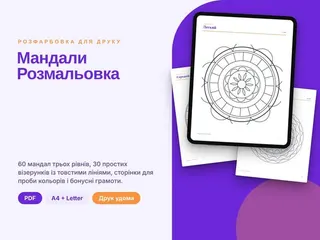
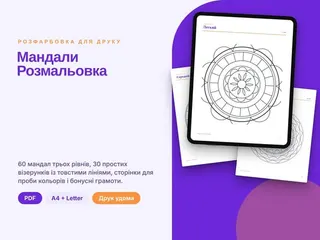
Update SEO pages

Changed region(s): [[0.0312, 0.2042, 0.375, 0.35]]

diff --git a/book/415e7af5-9b71-4b15-a2c9-d773b7cbc7a8/index.html b/book/415e7af5-9b71-4b15-a2c9-d773b7cbc7a8/index.html
@@ -11,10 +11,10 @@
 <link rel="canonical" href="https://librava.store/book/415e7af5-9b71-4b15-a2c9-d773b7cbc7a8/">
 <meta property="og:type" content="book"><meta property="og:site_name" content="Librava"><meta property="og:url" content="https://librava.store/book/415e7af5-9b71-4b15-a2c9-d773b7cbc7a8/">
 <meta property="og:title" content="Розмальовки Мандали для Дорослих, Розмальовка для Друку PDF для Релаксації та Зняття Стресу: 60 візерунків трьох рівнів складності, ще 30 з товстими лініями, сторінка проби кольорів, щоденник і грамоти, A4 та US Letter · 5,99 EUR"><meta property="og:description" content="Librava · Роздрукуйте вдома цілу майстерню мандал і розфарбовуйте на папері або на планшеті. В одному завантаженні ви отримаєте три частини. По-перше, головна книга: 60…">
-<meta property="og:image" content="https://librava.store/book/415e7af5-9b71-4b15-a2c9-d773b7cbc7a8/cover.jpg?v=1794601038913"><meta property="og:image:width" content="600"><meta property="og:image:height" content="450"><meta property="og:locale" content="uk">
-<meta name="twitter:card" content="summary_large_image"><meta name="twitter:image" content="https://librava.store/book/415e7af5-9b71-4b15-a2c9-d773b7cbc7a8/cover.jpg?v=1794601038913">
+<meta property="og:image" content="https://librava.store/book/415e7af5-9b71-4b15-a2c9-d773b7cbc7a8/cover.jpg?v=1794604566594"><meta property="og:image:width" content="600"><meta property="og:image:height" content="450"><meta property="og:locale" content="uk">
+<meta name="twitter:card" content="summary_large_image"><meta name="twitter:image" content="https://librava.store/book/415e7af5-9b71-4b15-a2c9-d773b7cbc7a8/cover.jpg?v=1794604566594">
 <meta property="product:price:amount" content="5.99"><meta property="product:price:currency" content="EUR">
-<script type="application/ld+json">{"@context":"https://schema.org","@graph":[{"@type":"Organization","@id":"https://librava.store/#org","name":"Librava","url":"https://librava.store/","logo":"https://librava.store/assets/img/icon-512.png","sameAs":["https://www.youtube.com/@LibravaStore","https://pin.it/1jF6MLTus","https://www.tiktok.com/@librava.store_ebook","https://www.instagram.com/librava.store_ebook/","https://www.facebook.com/profile.php?id=61596030620371"]},{"@type":"Product","@id":"https://librava.store/book/415e7af5-9b71-4b15-a2c9-d773b7cbc7a8/#book","name":"Розмальовки Мандали для Дорослих, Розмальовка для Друку PDF для Релаксації та Зняття Стресу","alternativeName":"60 візерунків трьох рівнів складності, ще 30 з товстими лініями, сторінка проби кольорів, щоденник і грамоти, A4 та US Letter","url":"https://librava.store/book/415e7af5-9b71-4b15-a2c9-d773b7cbc7a8/","description":"Роздрукуйте вдома цілу майстерню мандал і розфарбовуйте на папері або на планшеті. В одному завантаженні ви отримаєте три частини. По-перше, головна книга: 60 оригінальних мандал, кожна на окремій сторінці, від простих візерунків із великими формами до складних із тонкими лініями. Мандали з 1 по 20 легкі, з 21 по 40 середні, а з 41 по 60 складні. По-друге, видання з товстими лініями на 30 додаткових візерунків, які добре підходять для воскових олівців, товстих маркерів і маленьких рук. По-третє, бонусний набір з обліком прогресу, сторінкою щоденника розфарбовування та двома грамотами. У головній книзі також є сторінка проби кольорів і сторінка палітри, щоб ви могли сплановувати відтінки до початку. Кожен візерунок симетричний і створений для розфарбовування від центру до країв або від країв до центру. У комплекті файли PDF і для A4, і для US Letter, готові до друку у фактичному розмірі. Користуйтеся олівцями, гелевими ручками, маркерами чи цифровими пензлями: лінії чіткі й охайні, тож кожен колір виглядає яскраво. Вставте улюблені роботи в рамку, подаруйте їх або створіть спокійний вечірній ритуал із однією сторінкою на день. Файли A4 і Letter містять однакові сторінки, тому оберіть той, що підходить вашому принтеру. Лише для особистого використання.","image":["https://librava.store/book/415e7af5-9b71-4b15-a2c9-d773b7cbc7a8/cover.jpg?v=1794601038913"],"category":"Розмальовка","datePublished":"2026-11-13","publisher":{"@id":"https://librava.store/#org"},"copyrightHolder":{"@id":"https://librava.store/#org"},"copyrightYear":2026,"copyrightNotice":"© 2026 Librava (librava.store). All rights reserved.","brand":{"@type":"Brand","name":"Librava"},"sku":"415e7af5-9b71-4b15-a2c9-d773b7cbc7a8","genre":"Хобі, рукоділля та дім","offers":{"@type":"Offer","url":"https://librava.store/book/415e7af5-9b71-4b15-a2c9-d773b7cbc7a8/","name":"Цифровий файл (ZIP)","price":"5.99","priceCurrency":"EUR","availability":"https://schema.org/InStock","itemCondition":"https://schema.org/NewCondition","seller":{"@id":"https://librava.store/#org"},"hasMerchantReturnPolicy":{"@type":"MerchantReturnPolicy","applicableCountry":["AT","BE","BG","HR","CY","CZ","DK","EE","FI","FR","DE","GR","HU","IE","IT","LV","LT","LU","MT","NL","PL","PT","RO","SK","SI","ES","SE","GB","CH","NO","IS","US","CA","AU","NZ","MD","UA"],"returnPolicyCategory":"https://schema.org/MerchantReturnNotPermitted","merchantReturnLink":"https://librava.store/#/legal/withdrawal"},"shippingDetails":{"@type":"OfferShippingDetails","shippingRate":{"@type":"MonetaryAmount","value":0,"currency":"EUR"},"shippingDestination":{"@type":"DefinedRegion","addressCountry":["AT","BE","BG","HR","CY","CZ","DK","EE","FI","FR","DE","GR","HU","IE","IT","LV","LT","LU","MT","NL","PL","PT","RO","SK","SI","ES","SE","GB","CH","NO","IS","US","CA","AU","NZ","MD","UA"]},"deliveryTime":{"@type":"ShippingDeliveryTime","handlingTime":{"@type":"QuantitativeValue","minValue":0,"maxValue":0,"unitCode":"DAY"},"transitTime":{"@type":"QuantitativeValue","minValue":0,"maxValue":0,"unitCode":"DAY"}}}}},{"@type":"BreadcrumbList","itemListElement":[{"@type":"ListItem","position":1,"name":"Librava","item":"https://librava.store/uk/"},{"@type":"ListItem","position":2,"name":"Хобі, рукоділля та дім","item":"https://librava.store/uk/хобі-рукоділля-та-дім/"},{"@type":"ListItem","position":3,"name":"Розмальовки Мандали для Дорослих, Розмальовка для Друку PDF для Релаксації та Зняття Стресу","item":"https://librava.store/book/415e7af5-9b71-4b15-a2c9-d773b7cbc7a8/"}]}]}</script>
+<script type="application/ld+json">{"@context":"https://schema.org","@graph":[{"@type":"Organization","@id":"https://librava.store/#org","name":"Librava","url":"https://librava.store/","logo":"https://librava.store/assets/img/icon-512.png","sameAs":["https://www.youtube.com/@LibravaStore","https://pin.it/1jF6MLTus","https://www.tiktok.com/@librava.store_ebook","https://www.instagram.com/librava.store_ebook/","https://www.facebook.com/profile.php?id=61596030620371"]},{"@type":"Product","@id":"https://librava.store/book/415e7af5-9b71-4b15-a2c9-d773b7cbc7a8/#book","name":"Розмальовки Мандали для Дорослих, Розмальовка для Друку PDF для Релаксації та Зняття Стресу","alternativeName":"60 візерунків трьох рівнів складності, ще 30 з товстими лініями, сторінка проби кольорів, щоденник і грамоти, A4 та US Letter","url":"https://librava.store/book/415e7af5-9b71-4b15-a2c9-d773b7cbc7a8/","description":"Роздрукуйте вдома цілу майстерню мандал і розфарбовуйте на папері або на планшеті. В одному завантаженні ви отримаєте три частини. По-перше, головна книга: 60 оригінальних мандал, кожна на окремій сторінці, від простих візерунків із великими формами до складних із тонкими лініями. Мандали з 1 по 20 легкі, з 21 по 40 середні, а з 41 по 60 складні. По-друге, видання з товстими лініями на 30 додаткових візерунків, які добре підходять для воскових олівців, товстих маркерів і маленьких рук. По-третє, бонусний набір з обліком прогресу, сторінкою щоденника розфарбовування та двома грамотами. У головній книзі також є сторінка проби кольорів і сторінка палітри, щоб ви могли сплановувати відтінки до початку. Кожен візерунок симетричний і створений для розфарбовування від центру до країв або від країв до центру. У комплекті файли PDF і для A4, і для US Letter, готові до друку у фактичному розмірі. Користуйтеся олівцями, гелевими ручками, маркерами чи цифровими пензлями: лінії чіткі й охайні, тож кожен колір виглядає яскраво. Вставте улюблені роботи в рамку, подаруйте їх або створіть спокійний вечірній ритуал із однією сторінкою на день. Файли A4 і Letter містять однакові сторінки, тому оберіть той, що підходить вашому принтеру. Лише для особистого використання.","image":["https://librava.store/book/415e7af5-9b71-4b15-a2c9-d773b7cbc7a8/cover.jpg?v=1794604566594"],"category":"Розмальовка","datePublished":"2026-11-13","publisher":{"@id":"https://librava.store/#org"},"copyrightHolder":{"@id":"https://librava.store/#org"},"copyrightYear":2026,"copyrightNotice":"© 2026 Librava (librava.store). All rights reserved.","brand":{"@type":"Brand","name":"Librava"},"sku":"415e7af5-9b71-4b15-a2c9-d773b7cbc7a8","genre":"Хобі, рукоділля та дім","offers":{"@type":"Offer","url":"https://librava.store/book/415e7af5-9b71-4b15-a2c9-d773b7cbc7a8/","name":"Цифровий файл (ZIP)","price":"5.99","priceCurrency":"EUR","availability":"https://schema.org/InStock","itemCondition":"https://schema.org/NewCondition","seller":{"@id":"https://librava.store/#org"},"hasMerchantReturnPolicy":{"@type":"MerchantReturnPolicy","applicableCountry":["AT","BE","BG","HR","CY","CZ","DK","EE","FI","FR","DE","GR","HU","IE","IT","LV","LT","LU","MT","NL","PL","PT","RO","SK","SI","ES","SE","GB","CH","NO","IS","US","CA","AU","NZ","MD","UA"],"returnPolicyCategory":"https://schema.org/MerchantReturnNotPermitted","merchantReturnLink":"https://librava.store/#/legal/withdrawal"},"shippingDetails":{"@type":"OfferShippingDetails","shippingRate":{"@type":"MonetaryAmount","value":0,"currency":"EUR"},"shippingDestination":{"@type":"DefinedRegion","addressCountry":["AT","BE","BG","HR","CY","CZ","DK","EE","FI","FR","DE","GR","HU","IE","IT","LV","LT","LU","MT","NL","PL","PT","RO","SK","SI","ES","SE","GB","CH","NO","IS","US","CA","AU","NZ","MD","UA"]},"deliveryTime":{"@type":"ShippingDeliveryTime","handlingTime":{"@type":"QuantitativeValue","minValue":0,"maxValue":0,"unitCode":"DAY"},"transitTime":{"@type":"QuantitativeValue","minValue":0,"maxValue":0,"unitCode":"DAY"}}}}},{"@type":"BreadcrumbList","itemListElement":[{"@type":"ListItem","position":1,"name":"Librava","item":"https://librava.store/uk/"},{"@type":"ListItem","position":2,"name":"Хобі, рукоділля та дім","item":"https://librava.store/uk/хобі-рукоділля-та-дім/"},{"@type":"ListItem","position":3,"name":"Розмальовки Мандали для Дорослих, Розмальовка для Друку PDF для Релаксації та Зняття Стресу","item":"https://librava.store/book/415e7af5-9b71-4b15-a2c9-d773b7cbc7a8/"}]}]}</script>
 <!--/seo-->
 <meta name="google-site-verification" content="yHD2kTaqxFeEIKDSsD2zDN_drl_cTOeUGwN5LJR0zIg">
 <meta name="claude:viewport-fit-sides" content="cover">
@@ -30,7 +30,7 @@
 <body>
 <header class="hdr" id="hdr"></header>
 <main id="app" tabindex="-1"><div class="wrap page seo-pre"><nav class="crumbs"><a href="/uk/">Librava</a> › <a href="/uk/хобі-рукоділля-та-дім/">Хобі, рукоділля та дім</a></nav>
-    <article class="seo-book"><img src="https://librava.store/book/415e7af5-9b71-4b15-a2c9-d773b7cbc7a8/cover.jpg?v=1794601038913" alt="Розмальовки Мандали для Дорослих, Розмальовка для Друку PDF для Релаксації та Зняття Стресу" width="600" height="450"><div><h1>Розмальовки Мандали для Дорослих, Розмальовка для Друку PDF для Релаксації та Зняття Стресу</h1><p class="subtitle">60 візерунків трьох рівнів складності, ще 30 з товстими лініями, сторінка проби кольорів, щоденник і грамоти, A4 та US Letter</p>
+    <article class="seo-book"><img src="https://librava.store/book/415e7af5-9b71-4b15-a2c9-d773b7cbc7a8/cover.jpg?v=1794604566594" alt="Розмальовки Мандали для Дорослих, Розмальовка для Друку PDF для Релаксації та Зняття Стресу" width="600" height="450"><div><h1>Розмальовки Мандали для Дорослих, Розмальовка для Друку PDF для Релаксації та Зняття Стресу</h1><p class="subtitle">60 візерунків трьох рівнів складності, ще 30 з товстими лініями, сторінка проби кольорів, щоденник і грамоти, A4 та US Letter</p>
     <p>Автор: Librava</p><p><a href="/book/415e7af5-9b71-4b15-a2c9-d773b7cbc7a8/"><b>5,99 EUR</b> · Цифровий файл (ZIP)</a></p>
     <p>Роздрукуйте вдома цілу майстерню мандал і розфарбовуйте на папері або на планшеті. В одному завантаженні ви отримаєте три частини. По-перше, головна книга: 60 оригінальних мандал, кожна на окремій сторінці, від простих візерунків із великими формами до складних із тонкими лініями. Мандали з 1 по 20 легкі, з 21 по 40 середні, а з 41 по 60 складні. По-друге, видання з товстими лініями на 30 додаткових візерунків, які добре підходять для воскових олівців, товстих маркерів і маленьких рук. По-третє, бонусний набір з обліком прогресу, сторінкою щоденника розфарбовування та двома грамотами. У головній книзі також є сторінка проби кольорів і сторінка палітри, щоб ви могли сплановувати відтінки до початку. Кожен візерунок симетричний і створений для розфарбовування від центру до країв або від країв до центру. У комплекті файли PDF і для A4, і для US Letter, готові до друку у фактичному розмірі. Користуйтеся олівцями, гелевими ручками, маркерами чи цифровими пензлями: лінії чіткі й охайні, тож кожен колір виглядає яскраво. Вставте улюблені роботи в рамку, подаруйте їх або створіть спокійний вечірній ритуал із однією сторінкою на день. Файли A4 і Letter містять однакові сторінки, тому оберіть той, що підходить вашому принтеру. Лише для особистого використання.</p></div></article>
     

diff --git a/book/1b237343-08a7-4f1a-a118-45801a982d28/index.html b/book/1b237343-08a7-4f1a-a118-45801a982d28/index.html
@@ -35,7 +35,7 @@
     <p>Роздрукуйте вдома цілу бібліотеку філвордів і розв’язуйте їх на папері або на планшеті. У завантаженні три речі. Перша: основна книга з 60 тематичних головоломок, у кожній з яких 16 прихованих слів у чіткій сітці 15 на 15. Теми різноманітні: від морського життя й космосу до піратів, випічки та великих міст. Головоломки 1–20 прості, 21–40 середні, а 41–60 складні, тож складність зростає у вашому темпі. Друга: книга великим шрифтом із 30 додатковими головоломками на сітці 12 на 12. Літери великі й добре читаються, тому розв’язувати спокійно й комфортно для очей. Третя: бонусний набір із трекером прогресу, сторінкою особистих рекордів і двома сертифікатами. Слова йдуть по горизонталі, по вертикалі, по діагоналі та навпаки. До кожної головоломки є повні відповіді, тож результат можна одразу перевірити. У комплекті є файли PDF і для A4, і для US Letter, обидва готові до друку у фактичному розмірі. Головоломки підійдуть і дорослим, і дітям, це спокійний спосіб тримати розум у тонусі та приємно провести час разом. Гарно підійдуть для вихідних за містом, подорожі, черги чи вечора на дивані. Після завантаження можна одразу друкувати, додатковий застосунок не потрібен. Лише для особистого користування.</p></div></article>
     
     
-    <h2>Більше в цій категорії</h2><ul class="seo-books"><li><a href="/book/26c5dd5f-4437-4b81-b412-455645350e7b/"><img src="https://librava.store/book/26c5dd5f-4437-4b81-b412-455645350e7b/cover.jpg?v=1794593329496" alt="Судоку для Друку, Книга з 200 Головоломками Судоку для Дорослих, від Легких до Складних, Логічні Ігри PDF" width="120" loading="lazy"><span>Судоку для Друку, Книга з 200 Головоломками Судоку для Дорослих, від Легких до Складних, Логічні Ігри PDF</span></a> <small>Librava · 5,99 EUR</small></li><li><a href="/book/415e7af5-9b71-4b15-a2c9-d773b7cbc7a8/"><img src="https://librava.store/book/415e7af5-9b71-4b15-a2c9-d773b7cbc7a8/cover.jpg?v=1794601038913" alt="Розмальовки Мандали для Дорослих, Розмальовка для Друку PDF для Релаксації та Зняття Стресу" width="120" loading="lazy"><span>Розмальовки Мандали для Дорослих, Розмальовка для Друку PDF для Релаксації та Зняття Стресу</span></a> <small>Librava · 5,99 EUR</small></li></ul></div></main>
+    <h2>Більше в цій категорії</h2><ul class="seo-books"><li><a href="/book/26c5dd5f-4437-4b81-b412-455645350e7b/"><img src="https://librava.store/book/26c5dd5f-4437-4b81-b412-455645350e7b/cover.jpg?v=1794593329496" alt="Судоку для Друку, Книга з 200 Головоломками Судоку для Дорослих, від Легких до Складних, Логічні Ігри PDF" width="120" loading="lazy"><span>Судоку для Друку, Книга з 200 Головоломками Судоку для Дорослих, від Легких до Складних, Логічні Ігри PDF</span></a> <small>Librava · 5,99 EUR</small></li><li><a href="/book/415e7af5-9b71-4b15-a2c9-d773b7cbc7a8/"><img src="https://librava.store/book/415e7af5-9b71-4b15-a2c9-d773b7cbc7a8/cover.jpg?v=1794604566594" alt="Розмальовки Мандали для Дорослих, Розмальовка для Друку PDF для Релаксації та Зняття Стресу" width="120" loading="lazy"><span>Розмальовки Мандали для Дорослих, Розмальовка для Друку PDF для Релаксації та Зняття Стресу</span></a> <small>Librava · 5,99 EUR</small></li></ul></div></main>
 <div id="foot"></div>
 <div class="scrim" id="scrim" hidden></div>
 <nav class="drawer" id="drawer" aria-label="Meniu"></nav>

diff --git a/uk/хобі-рукоділля-та-дім/index.html b/uk/хобі-рукоділля-та-дім/index.html
@@ -51,7 +51,7 @@
 </head>
 <body>
 <header class="hdr" id="hdr"></header>
-<main id="app" tabindex="-1"><div class="wrap page seo-pre"><nav class="crumbs"><a href="/uk/">Librava</a> › Хобі, рукоділля та дім</nav><h1>Хобі, рукоділля та дім</h1><p>Результатів у категорії «Хобі, рукоділля та дім»: 3</p><ul class="seo-books"><li><a href="/book/1b237343-08a7-4f1a-a118-45801a982d28/"><img src="https://librava.store/book/1b237343-08a7-4f1a-a118-45801a982d28/cover.jpg?v=1794599832955" alt="Філворди для Друку, Збірник для Дорослих і Дітей, Тренування Мозку PDF" width="120" loading="lazy"><span>Філворди для Друку, Збірник для Дорослих і Дітей, Тренування Мозку PDF</span></a> <small>Librava · 5,99 EUR</small></li><li><a href="/book/26c5dd5f-4437-4b81-b412-455645350e7b/"><img src="https://librava.store/book/26c5dd5f-4437-4b81-b412-455645350e7b/cover.jpg?v=1794593329496" alt="Судоку для Друку, Книга з 200 Головоломками Судоку для Дорослих, від Легких до Складних, Логічні Ігри PDF" width="120" loading="lazy"><span>Судоку для Друку, Книга з 200 Головоломками Судоку для Дорослих, від Легких до Складних, Логічні Ігри PDF</span></a> <small>Librava · 5,99 EUR</small></li><li><a href="/book/415e7af5-9b71-4b15-a2c9-d773b7cbc7a8/"><img src="https://librava.store/book/415e7af5-9b71-4b15-a2c9-d773b7cbc7a8/cover.jpg?v=1794601038913" alt="Розмальовки Мандали для Дорослих, Розмальовка для Друку PDF для Релаксації та Зняття Стресу" width="120" loading="lazy"><span>Розмальовки Мандали для Дорослих, Розмальовка для Друку PDF для Релаксації та Зняття Стресу</span></a> <small>Librava · 5,99 EUR</small></li></ul></div></main>
+<main id="app" tabindex="-1"><div class="wrap page seo-pre"><nav class="crumbs"><a href="/uk/">Librava</a> › Хобі, рукоділля та дім</nav><h1>Хобі, рукоділля та дім</h1><p>Результатів у категорії «Хобі, рукоділля та дім»: 3</p><ul class="seo-books"><li><a href="/book/1b237343-08a7-4f1a-a118-45801a982d28/"><img src="https://librava.store/book/1b237343-08a7-4f1a-a118-45801a982d28/cover.jpg?v=1794599832955" alt="Філворди для Друку, Збірник для Дорослих і Дітей, Тренування Мозку PDF" width="120" loading="lazy"><span>Філворди для Друку, Збірник для Дорослих і Дітей, Тренування Мозку PDF</span></a> <small>Librava · 5,99 EUR</small></li><li><a href="/book/26c5dd5f-4437-4b81-b412-455645350e7b/"><img src="https://librava.store/book/26c5dd5f-4437-4b81-b412-455645350e7b/cover.jpg?v=1794593329496" alt="Судоку для Друку, Книга з 200 Головоломками Судоку для Дорослих, від Легких до Складних, Логічні Ігри PDF" width="120" loading="lazy"><span>Судоку для Друку, Книга з 200 Головоломками Судоку для Дорослих, від Легких до Складних, Логічні Ігри PDF</span></a> <small>Librava · 5,99 EUR</small></li><li><a href="/book/415e7af5-9b71-4b15-a2c9-d773b7cbc7a8/"><img src="https://librava.store/book/415e7af5-9b71-4b15-a2c9-d773b7cbc7a8/cover.jpg?v=1794604566594" alt="Розмальовки Мандали для Дорослих, Розмальовка для Друку PDF для Релаксації та Зняття Стресу" width="120" loading="lazy"><span>Розмальовки Мандали для Дорослих, Розмальовка для Друку PDF для Релаксації та Зняття Стресу</span></a> <small>Librava · 5,99 EUR</small></li></ul></div></main>
 <div id="foot"></div>
 <div class="scrim" id="scrim" hidden></div>
 <nav class="drawer" id="drawer" aria-label="Meniu"></nav>

diff --git a/uk/index.html b/uk/index.html
@@ -56,7 +56,7 @@
     
     
     <h2>Покупки за категоріями</h2><ul class="seo-cats"><li><a href="/uk/хобі-рукоділля-та-дім/">Хобі, рукоділля та дім</a></li></ul>
-    <h2>Новинки</h2><ul class="seo-books"><li><a href="/book/1b237343-08a7-4f1a-a118-45801a982d28/"><img src="https://librava.store/book/1b237343-08a7-4f1a-a118-45801a982d28/cover.jpg?v=1794599832955" alt="Філворди для Друку, Збірник для Дорослих і Дітей, Тренування Мозку PDF" width="120" loading="lazy"><span>Філворди для Друку, Збірник для Дорослих і Дітей, Тренування Мозку PDF</span></a> <small>Librava · 5,99 EUR</small></li><li><a href="/book/26c5dd5f-4437-4b81-b412-455645350e7b/"><img src="https://librava.store/book/26c5dd5f-4437-4b81-b412-455645350e7b/cover.jpg?v=1794593329496" alt="Судоку для Друку, Книга з 200 Головоломками Судоку для Дорослих, від Легких до Складних, Логічні Ігри PDF" width="120" loading="lazy"><span>Судоку для Друку, Книга з 200 Головоломками Судоку для Дорослих, від Легких до Складних, Логічні Ігри PDF</span></a> <small>Librava · 5,99 EUR</small></li><li><a href="/book/415e7af5-9b71-4b15-a2c9-d773b7cbc7a8/"><img src="https://librava.store/book/415e7af5-9b71-4b15-a2c9-d773b7cbc7a8/cover.jpg?v=1794601038913" alt="Розмальовки Мандали для Дорослих, Розмальовка для Друку PDF для Релаксації та Зняття Стресу" width="120" loading="lazy"><span>Розмальовки Мандали для Дорослих, Розмальовка для Друку PDF для Релаксації та Зняття Стресу</span></a> <small>Librava · 5,99 EUR</small></li></ul></div></main>
+    <h2>Новинки</h2><ul class="seo-books"><li><a href="/book/1b237343-08a7-4f1a-a118-45801a982d28/"><img src="https://librava.store/book/1b237343-08a7-4f1a-a118-45801a982d28/cover.jpg?v=1794599832955" alt="Філворди для Друку, Збірник для Дорослих і Дітей, Тренування Мозку PDF" width="120" loading="lazy"><span>Філворди для Друку, Збірник для Дорослих і Дітей, Тренування Мозку PDF</span></a> <small>Librava · 5,99 EUR</small></li><li><a href="/book/26c5dd5f-4437-4b81-b412-455645350e7b/"><img src="https://librava.store/book/26c5dd5f-4437-4b81-b412-455645350e7b/cover.jpg?v=1794593329496" alt="Судоку для Друку, Книга з 200 Головоломками Судоку для Дорослих, від Легких до Складних, Логічні Ігри PDF" width="120" loading="lazy"><span>Судоку для Друку, Книга з 200 Головоломками Судоку для Дорослих, від Легких до Складних, Логічні Ігри PDF</span></a> <small>Librava · 5,99 EUR</small></li><li><a href="/book/415e7af5-9b71-4b15-a2c9-d773b7cbc7a8/"><img src="https://librava.store/book/415e7af5-9b71-4b15-a2c9-d773b7cbc7a8/cover.jpg?v=1794604566594" alt="Розмальовки Мандали для Дорослих, Розмальовка для Друку PDF для Релаксації та Зняття Стресу" width="120" loading="lazy"><span>Розмальовки Мандали для Дорослих, Розмальовка для Друку PDF для Релаксації та Зняття Стресу</span></a> <small>Librava · 5,99 EUR</small></li></ul></div></main>
 <div id="foot"></div>
 <div class="scrim" id="scrim" hidden></div>
 <nav class="drawer" id="drawer" aria-label="Meniu"></nav>

diff --git a/book/26c5dd5f-4437-4b81-b412-455645350e7b/index.html b/book/26c5dd5f-4437-4b81-b412-455645350e7b/index.html
@@ -35,7 +35,7 @@
     <p>Роздрукуйте вдома цілу бібліотеку судоку та розв&#39;язуйте її на папері або на планшеті. Книга містить 200 головоломок на п&#39;яти рівнях: 40 дуже легких, 40 легких, 50 середніх, 40 складних і 30 для експертів, тож можна почати спокійно й дорости до справжніх викликів. Кожна головоломка має рівно один розв&#39;язок, а в кінці книги наведено всі розв&#39;язки, по дев&#39;ять на сторінці. Бонусний пакет додає трекер прогресу з клітинкою для кожної головоломки, сторінку рекордів для дат, часу та помилок і дві подяки за досягнення. У комплекті є PDF-файли A4 і US Letter, готові до друку у фактичному розмірі, з великими чіткими сітками, у яких зручно писати. Лише для особистого користування.</p></div></article>
     
     
-    <h2>Більше в цій категорії</h2><ul class="seo-books"><li><a href="/book/1b237343-08a7-4f1a-a118-45801a982d28/"><img src="https://librava.store/book/1b237343-08a7-4f1a-a118-45801a982d28/cover.jpg?v=1794599832955" alt="Філворди для Друку, Збірник для Дорослих і Дітей, Тренування Мозку PDF" width="120" loading="lazy"><span>Філворди для Друку, Збірник для Дорослих і Дітей, Тренування Мозку PDF</span></a> <small>Librava · 5,99 EUR</small></li><li><a href="/book/415e7af5-9b71-4b15-a2c9-d773b7cbc7a8/"><img src="https://librava.store/book/415e7af5-9b71-4b15-a2c9-d773b7cbc7a8/cover.jpg?v=1794601038913" alt="Розмальовки Мандали для Дорослих, Розмальовка для Друку PDF для Релаксації та Зняття Стресу" width="120" loading="lazy"><span>Розмальовки Мандали для Дорослих, Розмальовка для Друку PDF для Релаксації та Зняття Стресу</span></a> <small>Librava · 5,99 EUR</small></li></ul></div></main>
+    <h2>Більше в цій категорії</h2><ul class="seo-books"><li><a href="/book/1b237343-08a7-4f1a-a118-45801a982d28/"><img src="https://librava.store/book/1b237343-08a7-4f1a-a118-45801a982d28/cover.jpg?v=1794599832955" alt="Філворди для Друку, Збірник для Дорослих і Дітей, Тренування Мозку PDF" width="120" loading="lazy"><span>Філворди для Друку, Збірник для Дорослих і Дітей, Тренування Мозку PDF</span></a> <small>Librava · 5,99 EUR</small></li><li><a href="/book/415e7af5-9b71-4b15-a2c9-d773b7cbc7a8/"><img src="https://librava.store/book/415e7af5-9b71-4b15-a2c9-d773b7cbc7a8/cover.jpg?v=1794604566594" alt="Розмальовки Мандали для Дорослих, Розмальовка для Друку PDF для Релаксації та Зняття Стресу" width="120" loading="lazy"><span>Розмальовки Мандали для Дорослих, Розмальовка для Друку PDF для Релаксації та Зняття Стресу</span></a> <small>Librava · 5,99 EUR</small></li></ul></div></main>
 <div id="foot"></div>
 <div class="scrim" id="scrim" hidden></div>
 <nav class="drawer" id="drawer" aria-label="Meniu"></nav>
